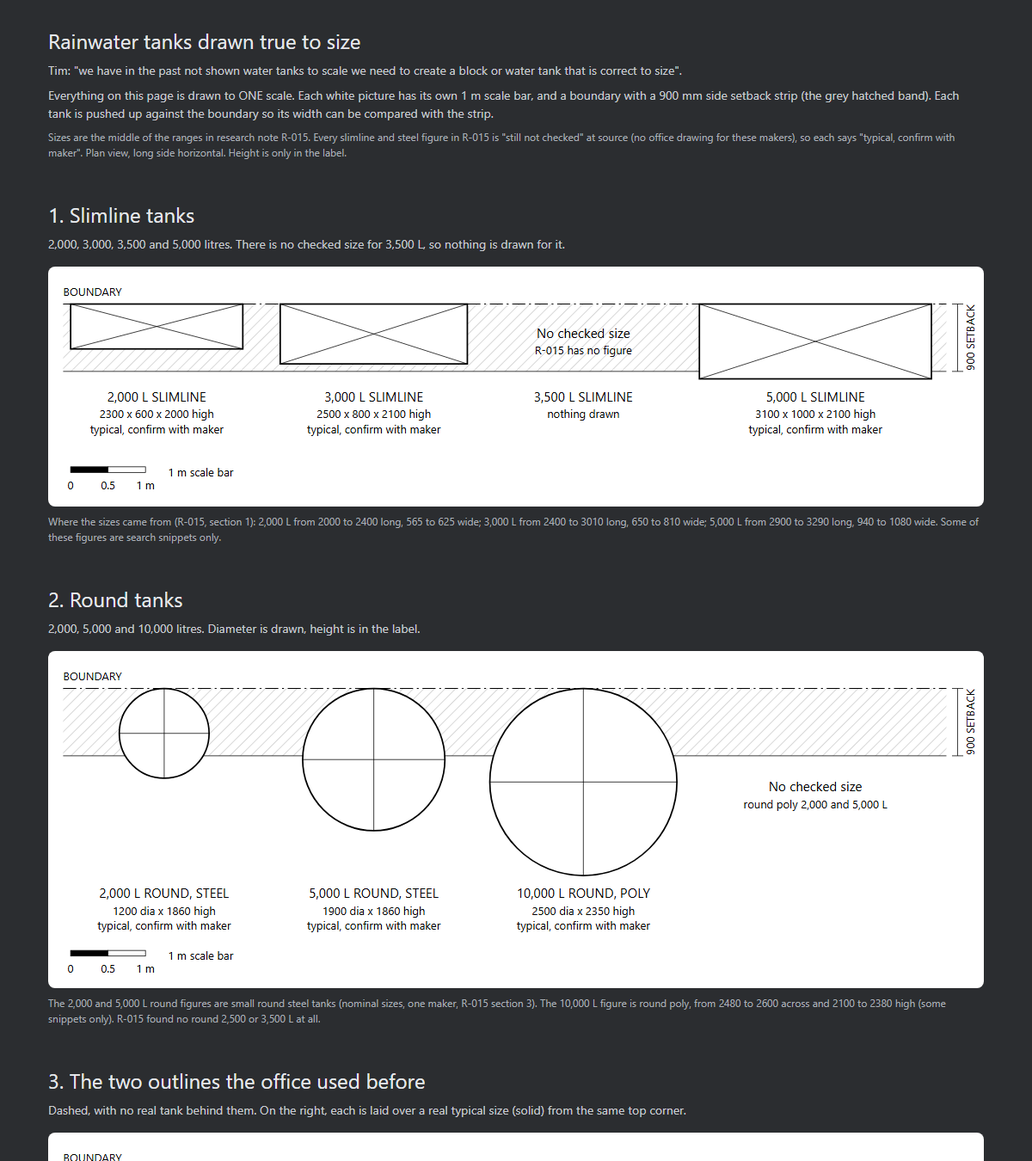
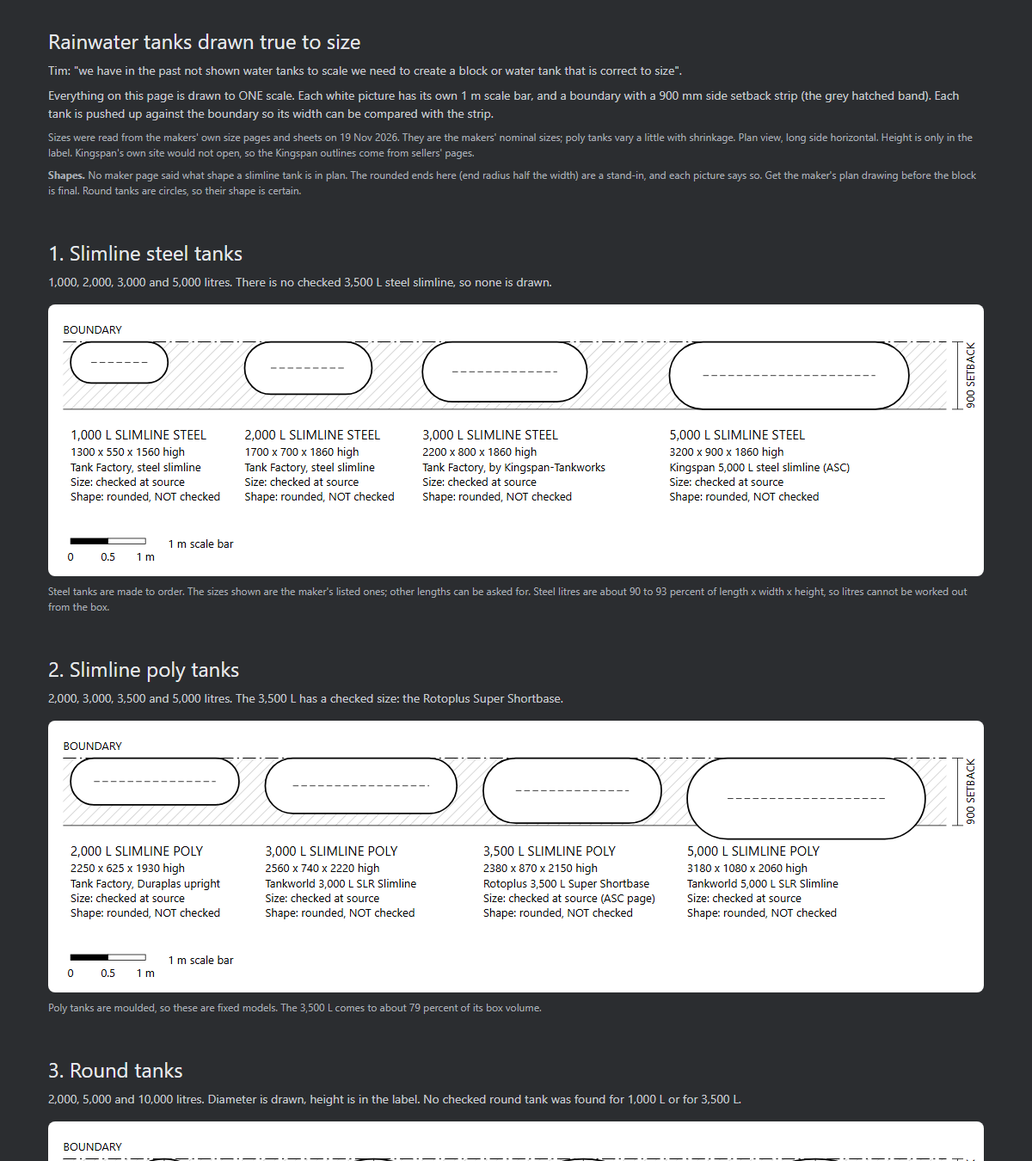
zero: tank page redrawn with makers' checked sizes and rounded ends (shape not checked at source)

Changed region(s): [[0.0308, 0.0933, 0.9558, 1.0]]

diff --git a/zero/pictures/tank_true_size.html b/zero/pictures/tank_true_size.html
@@ -49,210 +49,42 @@
   <h1>Rainwater tanks drawn true to size</h1>
   <p>Tim: "we have in the past not shown water tanks to scale we need to create a block or water tank that is correct to size".</p>
   <p>Everything on this page is drawn to ONE scale. Each white picture has its own 1 m scale bar, and a boundary with a 900 mm side setback strip (the grey hatched band). Each tank is pushed up against the boundary so its width can be compared with the strip.</p>
-  <p class="note">Sizes are the middle of the ranges in research note R-015. Every slimline and steel figure in R-015 is "still not checked" at source (no office drawing for these makers), so each says "typical, confirm with maker". Plan view, long side horizontal. Height is only in the label.</p>
+  <p class="note">Sizes were read from the makers' own size pages and sheets on 19 Nov 2026. They are the makers' nominal sizes; poly tanks vary a little with shrinkage. Plan view, long side horizontal. Height is only in the label. Kingspan's own site would not open, so the Kingspan outlines come from sellers' pages.</p>
+  <p class="note"><b>Shapes.</b> No maker page said what shape a slimline tank is in plan. The rounded ends here (end radius half the width) are a stand-in, and each picture says so. Get the maker's plan drawing before the block is final. Round tanks are circles, so their shape is certain.</p>
 
-  <!-- ================= 1. SLIMLINE ================= -->
-  <h2>1. Slimline tanks</h2>
-  <p>2,000, 3,000, 3,500 and 5,000 litres. There is no checked size for 3,500 L, so nothing is drawn for it.</p>
-  <div class="panel">
-    <svg viewBox="0 0 1000 256" font-family="'IBM Plex Sans','Segoe UI',Arial,sans-serif" role="img" aria-label="Slimline tanks at 2,000, 3,000, 3,500 (no checked size) and 5,000 litres, to one scale, beside a 900 mm setback strip">
-      <!-- boundary and 900 mm strip: 80 px = 1 m, so 900 mm = 72 px -->
-      <rect x="16" y="40" width="944" height="72" fill="url(#hatch)"/>
-      <line x1="16" y1="40" x2="960" y2="40" stroke="#000" stroke-width="1" stroke-dasharray="14 4 2 4"/>
-      <line x1="16" y1="112" x2="960" y2="112" stroke="#000" stroke-width=".7"/>
-      <text x="16" y="31" font-size="12" fill="#000">BOUNDARY</text>
-      <path d="M966 40H978M966 112H978M972 40V112" stroke="#000" stroke-width=".7" fill="none"/>
-      <text x="990" y="76" font-size="12" fill="#000" text-anchor="middle" transform="rotate(-90 990 76)">900 SETBACK</text>
+  <h2>1. Slimline steel tanks</h2>
+  <p>1,000, 2,000, 3,000 and 5,000 litres. There is no checked 3,500 L steel slimline, so none is drawn.</p>
+  <div class="panel"><svg viewBox="0 0 1000 290" font-family="'IBM Plex Sans','Segoe UI',Arial,sans-serif" role="img" aria-label="Slimline steel tanks at 1,000, 2,000, 3,000 and 5,000 litres, to one scale, beside a 900 mm setback strip"><rect x="16" y="40" width="944" height="72" fill="url(#hatch)"/><line x1="16" y1="40" x2="960" y2="40" stroke="#000" stroke-width="1" stroke-dasharray="14 4 2 4"/><line x1="16" y1="112" x2="960" y2="112" stroke="#000" stroke-width=".7"/><text x="16" y="31" font-size="12" fill="#000">BOUNDARY</text><path d="M966 40H978M966 112H978M972 40V112" stroke="#000" stroke-width=".7" fill="none"/><text x="990" y="76" font-size="12" fill="#000" text-anchor="middle" transform="rotate(-90 990 76)">900 SETBACK</text><rect x="24" y="40" width="104" height="44" rx="22" fill="#fff" stroke="#000" stroke-width="1.6"/><path d="M46 62H106" stroke="#000" stroke-width=".7" stroke-dasharray="6 3" fill="none"/><text x="24" y="144" font-size="14" fill="#000">1,000 L SLIMLINE STEEL</text><text x="24" y="162" font-size="12" fill="#000">1300 x 550 x 1560 high</text><text x="24" y="178" font-size="12" fill="#000">Tank Factory, steel slimline</text><text x="24" y="194" font-size="12" fill="#000">Size: checked at source</text><text x="24" y="210" font-size="12" fill="#000">Shape: rounded, NOT checked</text><rect x="210" y="40" width="136" height="56" rx="28" fill="#fff" stroke="#000" stroke-width="1.6"/><path d="M238 68H318" stroke="#000" stroke-width=".7" stroke-dasharray="6 3" fill="none"/><text x="210" y="144" font-size="14" fill="#000">2,000 L SLIMLINE STEEL</text><text x="210" y="162" font-size="12" fill="#000">1700 x 700 x 1860 high</text><text x="210" y="178" font-size="12" fill="#000">Tank Factory, steel slimline</text><text x="210" y="194" font-size="12" fill="#000">Size: checked at source</text><text x="210" y="210" font-size="12" fill="#000">Shape: rounded, NOT checked</text><rect x="400" y="40" width="176" height="64" rx="32" fill="#fff" stroke="#000" stroke-width="1.6"/><path d="M432 72H544" stroke="#000" stroke-width=".7" stroke-dasharray="6 3" fill="none"/><text x="400" y="144" font-size="14" fill="#000">3,000 L SLIMLINE STEEL</text><text x="400" y="162" font-size="12" fill="#000">2200 x 800 x 1860 high</text><text x="400" y="178" font-size="12" fill="#000">Tank Factory, by Kingspan-Tankworks</text><text x="400" y="194" font-size="12" fill="#000">Size: checked at source</text><text x="400" y="210" font-size="12" fill="#000">Shape: rounded, NOT checked</text><rect x="664" y="40" width="256" height="72" rx="36" fill="#fff" stroke="#000" stroke-width="1.6"/><path d="M700 76H884" stroke="#000" stroke-width=".7" stroke-dasharray="6 3" fill="none"/><text x="664" y="144" font-size="14" fill="#000">5,000 L SLIMLINE STEEL</text><text x="664" y="162" font-size="12" fill="#000">3200 x 900 x 1860 high</text><text x="664" y="178" font-size="12" fill="#000">Kingspan 5,000 L steel slimline (ASC)</text><text x="664" y="194" font-size="12" fill="#000">Size: checked at source</text><text x="664" y="210" font-size="12" fill="#000">Shape: rounded, NOT checked</text><rect x="24" y="250" width="40" height="6" fill="#000" stroke="#000" stroke-width=".7"/><rect x="64" y="250" width="40" height="6" fill="#fff" stroke="#000" stroke-width=".7"/><text x="24" y="274" font-size="12" fill="#000" text-anchor="middle">0</text><text x="64" y="274" font-size="12" fill="#000" text-anchor="middle">0.5</text><text x="104" y="274" font-size="12" fill="#000" text-anchor="middle">1 m</text><text x="128" y="260" font-size="12" fill="#000">1 m scale bar</text></svg></div>
+  <p class="note" style="margin-top:8px">Steel tanks are made to order. The sizes shown are the maker's listed ones; other lengths can be asked for. Steel litres are about 90 to 93 percent of length x width x height, so litres cannot be worked out from the box.</p>
 
-      <!-- 2,000 L: 2300 x 600 -->
-      <rect x="24" y="40" width="184" height="48" fill="#fff" stroke="#000" stroke-width="1.6"/>
-      <path d="M24 40L208 88M24 88L208 40" stroke="#000" stroke-width=".7"/>
-      <text x="116" y="144" font-size="14" fill="#000" text-anchor="middle">2,000 L SLIMLINE</text>
-      <text x="116" y="162" font-size="12" fill="#000" text-anchor="middle">2300 x 600 x 2000 high</text>
-      <text x="116" y="178" font-size="12" fill="#000" text-anchor="middle">typical, confirm with maker</text>
+  <h2>2. Slimline poly tanks</h2>
+  <p>2,000, 3,000, 3,500 and 5,000 litres. The 3,500 L has a checked size: the Rotoplus Super Shortbase.</p>
+  <div class="panel"><svg viewBox="0 0 1000 290" font-family="'IBM Plex Sans','Segoe UI',Arial,sans-serif" role="img" aria-label="Slimline poly tanks at 2,000, 3,000, 3,500 and 5,000 litres, to one scale, beside a 900 mm setback strip"><rect x="16" y="40" width="944" height="72" fill="url(#hatch)"/><line x1="16" y1="40" x2="960" y2="40" stroke="#000" stroke-width="1" stroke-dasharray="14 4 2 4"/><line x1="16" y1="112" x2="960" y2="112" stroke="#000" stroke-width=".7"/><text x="16" y="31" font-size="12" fill="#000">BOUNDARY</text><path d="M966 40H978M966 112H978M972 40V112" stroke="#000" stroke-width=".7" fill="none"/><text x="990" y="76" font-size="12" fill="#000" text-anchor="middle" transform="rotate(-90 990 76)">900 SETBACK</text><rect x="24" y="40" width="180" height="50" rx="25" fill="#fff" stroke="#000" stroke-width="1.6"/><path d="M49 65H179" stroke="#000" stroke-width=".7" stroke-dasharray="6 3" fill="none"/><text x="24" y="144" font-size="14" fill="#000">2,000 L SLIMLINE POLY</text><text x="24" y="162" font-size="12" fill="#000">2250 x 625 x 1930 high</text><text x="24" y="178" font-size="12" fill="#000">Tank Factory, Duraplas upright</text><text x="24" y="194" font-size="12" fill="#000">Size: checked at source</text><text x="24" y="210" font-size="12" fill="#000">Shape: rounded, NOT checked</text><rect x="232" y="40" width="204.8" height="59.2" rx="29.6" fill="#fff" stroke="#000" stroke-width="1.6"/><path d="M261.6 69.6H407.2" stroke="#000" stroke-width=".7" stroke-dasharray="6 3" fill="none"/><text x="232" y="144" font-size="14" fill="#000">3,000 L SLIMLINE POLY</text><text x="232" y="162" font-size="12" fill="#000">2560 x 740 x 2220 high</text><text x="232" y="178" font-size="12" fill="#000">Tankworld 3,000 L SLR Slimline</text><text x="232" y="194" font-size="12" fill="#000">Size: checked at source</text><text x="232" y="210" font-size="12" fill="#000">Shape: rounded, NOT checked</text><rect x="465" y="40" width="190.4" height="69.6" rx="34.8" fill="#fff" stroke="#000" stroke-width="1.6"/><path d="M499.8 74.8H620.6" stroke="#000" stroke-width=".7" stroke-dasharray="6 3" fill="none"/><text x="465" y="144" font-size="14" fill="#000">3,500 L SLIMLINE POLY</text><text x="465" y="162" font-size="12" fill="#000">2380 x 870 x 2150 high</text><text x="465" y="178" font-size="12" fill="#000">Rotoplus 3,500 L Super Shortbase</text><text x="465" y="194" font-size="12" fill="#000">Size: checked at source (ASC page)</text><text x="465" y="210" font-size="12" fill="#000">Shape: rounded, NOT checked</text><rect x="683" y="40" width="254.4" height="86.4" rx="43.2" fill="#fff" stroke="#000" stroke-width="1.6"/><path d="M726.2 83.2H894.2" stroke="#000" stroke-width=".7" stroke-dasharray="6 3" fill="none"/><text x="683" y="144" font-size="14" fill="#000">5,000 L SLIMLINE POLY</text><text x="683" y="162" font-size="12" fill="#000">3180 x 1080 x 2060 high</text><text x="683" y="178" font-size="12" fill="#000">Tankworld 5,000 L SLR Slimline</text><text x="683" y="194" font-size="12" fill="#000">Size: checked at source</text><text x="683" y="210" font-size="12" fill="#000">Shape: rounded, NOT checked</text><rect x="24" y="250" width="40" height="6" fill="#000" stroke="#000" stroke-width=".7"/><rect x="64" y="250" width="40" height="6" fill="#fff" stroke="#000" stroke-width=".7"/><text x="24" y="274" font-size="12" fill="#000" text-anchor="middle">0</text><text x="64" y="274" font-size="12" fill="#000" text-anchor="middle">0.5</text><text x="104" y="274" font-size="12" fill="#000" text-anchor="middle">1 m</text><text x="128" y="260" font-size="12" fill="#000">1 m scale bar</text></svg></div>
+  <p class="note" style="margin-top:8px">Poly tanks are moulded, so these are fixed models. The 3,500 L comes to about 79 percent of its box volume.</p>
 
-      <!-- 3,000 L: 2500 x 800 -->
-      <rect x="248" y="40" width="200" height="64" fill="#fff" stroke="#000" stroke-width="1.6"/>
-      <path d="M248 40L448 104M248 104L448 40" stroke="#000" stroke-width=".7"/>
-      <text x="348" y="144" font-size="14" fill="#000" text-anchor="middle">3,000 L SLIMLINE</text>
-      <text x="348" y="162" font-size="12" fill="#000" text-anchor="middle">2500 x 800 x 2100 high</text>
-      <text x="348" y="178" font-size="12" fill="#000" text-anchor="middle">typical, confirm with maker</text>
+  <h2>3. Round tanks</h2>
+  <p>2,000, 5,000 and 10,000 litres. Diameter is drawn, height is in the label. No checked round tank was found for 1,000 L or for 3,500 L.</p>
+  <div class="panel"><svg viewBox="0 0 1000 400" font-family="'IBM Plex Sans','Segoe UI',Arial,sans-serif" role="img" aria-label="Round tanks at 2,000, 5,000 and 10,000 litres to one scale, beside a 900 mm setback strip"><rect x="16" y="40" width="944" height="72" fill="url(#hatch)"/><line x1="16" y1="40" x2="960" y2="40" stroke="#000" stroke-width="1" stroke-dasharray="14 4 2 4"/><line x1="16" y1="112" x2="960" y2="112" stroke="#000" stroke-width=".7"/><text x="16" y="31" font-size="12" fill="#000">BOUNDARY</text><path d="M966 40H978M966 112H978M972 40V112" stroke="#000" stroke-width=".7" fill="none"/><text x="990" y="76" font-size="12" fill="#000" text-anchor="middle" transform="rotate(-90 990 76)">900 SETBACK</text><circle cx="124" cy="88" r="48" fill="#fff" stroke="#000" stroke-width="1.6"/><path d="M76 88H172M124 40V136" stroke="#000" stroke-width=".7" fill="none"/><text x="124" y="290" font-size="14" fill="#000" text-anchor="middle">2,000 L ROUND, STEEL</text><text x="124" y="308" font-size="12" fill="#000" text-anchor="middle">1200 dia x 1860 high</text><text x="124" y="324" font-size="12" fill="#000" text-anchor="middle">Tank Factory, round steel</text><text x="124" y="340" font-size="12" fill="#000" text-anchor="middle">Size: checked at source</text><circle cx="348" cy="116" r="76" fill="#fff" stroke="#000" stroke-width="1.6"/><path d="M272 116H424M348 40V192" stroke="#000" stroke-width=".7" fill="none"/><text x="348" y="290" font-size="14" fill="#000" text-anchor="middle">5,000 L ROUND, STEEL</text><text x="348" y="308" font-size="12" fill="#000" text-anchor="middle">1900 dia x 1860 high</text><text x="348" y="324" font-size="12" fill="#000" text-anchor="middle">Tank Factory, round steel</text><text x="348" y="340" font-size="12" fill="#000" text-anchor="middle">Size: checked at source</text><circle cx="572" cy="140.4" r="100.4" fill="#fff" stroke="#000" stroke-width="1.6"/><path d="M471.6 140.4H672.4M572 40V240.8" stroke="#000" stroke-width=".7" fill="none"/><text x="572" y="290" font-size="14" fill="#000" text-anchor="middle">10,000 L ROUND, POLY</text><text x="572" y="308" font-size="12" fill="#000" text-anchor="middle">2510 dia x 2350 high</text><text x="572" y="324" font-size="12" fill="#000" text-anchor="middle">Tank Factory, Duraplas round</text><text x="572" y="340" font-size="12" fill="#000" text-anchor="middle">Size: checked at source</text><circle cx="820" cy="148" r="108" fill="#fff" stroke="#000" stroke-width="1.6"/><path d="M712 148H928M820 40V256" stroke="#000" stroke-width=".7" fill="none"/><text x="820" y="290" font-size="14" fill="#000" text-anchor="middle">10,000 L ROUND, STEEL</text><text x="820" y="308" font-size="12" fill="#000" text-anchor="middle">2700 dia x 1860 high</text><text x="820" y="324" font-size="12" fill="#000" text-anchor="middle">Tank Factory, round steel</text><text x="820" y="340" font-size="12" fill="#000" text-anchor="middle">Size: checked at source</text><rect x="24" y="362" width="40" height="6" fill="#000" stroke="#000" stroke-width=".7"/><rect x="64" y="362" width="40" height="6" fill="#fff" stroke="#000" stroke-width=".7"/><text x="24" y="386" font-size="12" fill="#000" text-anchor="middle">0</text><text x="64" y="386" font-size="12" fill="#000" text-anchor="middle">0.5</text><text x="104" y="386" font-size="12" fill="#000" text-anchor="middle">1 m</text><text x="128" y="372" font-size="12" fill="#000">1 m scale bar</text></svg></div>
 
-      <!-- 3,500 L: no checked size -->
-      <text x="572" y="76" font-size="14" fill="#000" text-anchor="middle">No checked size</text>
-      <text x="572" y="94" font-size="12" fill="#000" text-anchor="middle">R-015 has no figure</text>
-      <text x="572" y="144" font-size="14" fill="#000" text-anchor="middle">3,500 L SLIMLINE</text>
-      <text x="572" y="162" font-size="12" fill="#000" text-anchor="middle">nothing drawn</text>
+  <h2>4. The two outlines the office used before</h2>
+  <p>Dashed, with no real tank behind them. On the right, each is laid over a real size (solid) from the same top corner.</p>
+  <div class="panel"><svg viewBox="0 0 1000 300" font-family="'IBM Plex Sans','Segoe UI',Arial,sans-serif" role="img" aria-label="The two old tank outlines, 890 by 2400 and 2250 by 650, dashed, to the same scale, and laid over real sizes"><rect x="16" y="40" width="944" height="72" fill="url(#hatch)"/><line x1="16" y1="40" x2="960" y2="40" stroke="#000" stroke-width="1" stroke-dasharray="14 4 2 4"/><line x1="16" y1="112" x2="960" y2="112" stroke="#000" stroke-width=".7"/><text x="16" y="31" font-size="12" fill="#000">BOUNDARY</text><path d="M966 40H978M966 112H978M972 40V112" stroke="#000" stroke-width=".7" fill="none"/><text x="990" y="76" font-size="12" fill="#000" text-anchor="middle" transform="rotate(-90 990 76)">900 SETBACK</text><rect x="24" y="40" width="192" height="71.2" fill="#fff" stroke="#000" stroke-width="1.2" stroke-dasharray="7 4"/><text x="24" y="144" font-size="14" fill="#000">old outline, not to size</text><text x="24" y="162" font-size="12" fill="#000">890 x 2400</text><rect x="248" y="40" width="180" height="52" fill="#fff" stroke="#000" stroke-width="1.2" stroke-dasharray="7 4"/><text x="248" y="144" font-size="14" fill="#000">old outline, not to size</text><text x="248" y="162" font-size="12" fill="#000">2250 x 650</text><rect x="472" y="40" width="176" height="64" rx="32" fill="#fff" stroke="#000" stroke-width="1.6"/><rect x="472" y="40" width="192" height="71.2" fill="none" stroke="#000" stroke-width="1.2" stroke-dasharray="7 4"/><text x="472" y="144" font-size="14" fill="#000">old against new</text><text x="472" y="162" font-size="12" fill="#000">solid: 3,000 L steel 2200 x 800</text><text x="472" y="178" font-size="12" fill="#000">dashed: old 890 x 2400</text><rect x="712" y="40" width="180" height="50" rx="25" fill="#fff" stroke="#000" stroke-width="1.6"/><rect x="712" y="40" width="180" height="52" fill="none" stroke="#000" stroke-width="1.2" stroke-dasharray="7 4"/><text x="712" y="144" font-size="14" fill="#000">old against new</text><text x="712" y="162" font-size="12" fill="#000">solid: 2,000 L poly 2250 x 625</text><text x="712" y="178" font-size="12" fill="#000">dashed: old 2250 x 650</text><rect x="24" y="234" width="40" height="6" fill="#000" stroke="#000" stroke-width=".7"/><rect x="64" y="234" width="40" height="6" fill="#fff" stroke="#000" stroke-width=".7"/><text x="24" y="258" font-size="12" fill="#000" text-anchor="middle">0</text><text x="64" y="258" font-size="12" fill="#000" text-anchor="middle">0.5</text><text x="104" y="258" font-size="12" fill="#000" text-anchor="middle">1 m</text><text x="128" y="244" font-size="12" fill="#000">1 m scale bar</text></svg></div>
 
-      <!-- 5,000 L: 3100 x 1000 -->
-      <rect x="696" y="40" width="248" height="80" fill="#fff" stroke="#000" stroke-width="1.6"/>
-      <path d="M696 40L944 120M696 120L944 40" stroke="#000" stroke-width=".7"/>
-      <text x="820" y="144" font-size="14" fill="#000" text-anchor="middle">5,000 L SLIMLINE</text>
-      <text x="820" y="162" font-size="12" fill="#000" text-anchor="middle">3100 x 1000 x 2100 high</text>
-      <text x="820" y="178" font-size="12" fill="#000" text-anchor="middle">typical, confirm with maker</text>
-
-      <!-- scale bar, 80 px = 1 m -->
-      <rect x="24" y="214" width="40" height="6" fill="#000" stroke="#000" stroke-width=".7"/>
-      <rect x="64" y="214" width="40" height="6" fill="#fff" stroke="#000" stroke-width=".7"/>
-      <text x="24" y="238" font-size="12" fill="#000" text-anchor="middle">0</text>
-      <text x="64" y="238" font-size="12" fill="#000" text-anchor="middle">0.5</text>
-      <text x="104" y="238" font-size="12" fill="#000" text-anchor="middle">1 m</text>
-      <text x="128" y="224" font-size="12" fill="#000">1 m scale bar</text>
-    </svg>
-  </div>
-  <p class="note" style="margin-top:8px">Where the sizes came from (R-015, section 1): 2,000 L from 2000 to 2400 long, 565 to 625 wide; 3,000 L from 2400 to 3010 long, 650 to 810 wide; 5,000 L from 2900 to 3290 long, 940 to 1080 wide. Some of these figures are search snippets only.</p>
-
-  <!-- ================= 2. ROUND ================= -->
-  <h2>2. Round tanks</h2>
-  <p>2,000, 5,000 and 10,000 litres. Diameter is drawn, height is in the label.</p>
-  <div class="panel">
-    <svg viewBox="0 0 1000 360" font-family="'IBM Plex Sans','Segoe UI',Arial,sans-serif" role="img" aria-label="Round tanks at 2,000, 5,000 and 10,000 litres to one scale, beside a 900 mm setback strip">
-      <rect x="16" y="40" width="944" height="72" fill="url(#hatch)"/>
-      <line x1="16" y1="40" x2="960" y2="40" stroke="#000" stroke-width="1" stroke-dasharray="14 4 2 4"/>
-      <line x1="16" y1="112" x2="960" y2="112" stroke="#000" stroke-width=".7"/>
-      <text x="16" y="31" font-size="12" fill="#000">BOUNDARY</text>
-      <path d="M966 40H978M966 112H978M972 40V112" stroke="#000" stroke-width=".7" fill="none"/>
-      <text x="990" y="76" font-size="12" fill="#000" text-anchor="middle" transform="rotate(-90 990 76)">900 SETBACK</text>
-
-      <!-- 2,000 L round steel: 1200 dia = 96 px -->
-      <circle cx="124" cy="88" r="48" fill="#fff" stroke="#000" stroke-width="1.6"/>
-      <path d="M76 88H172M124 40V136" stroke="#000" stroke-width=".7"/>
-      <text x="124" y="264" font-size="14" fill="#000" text-anchor="middle">2,000 L ROUND, STEEL</text>
-      <text x="124" y="282" font-size="12" fill="#000" text-anchor="middle">1200 dia x 1860 high</text>
-      <text x="124" y="298" font-size="12" fill="#000" text-anchor="middle">typical, confirm with maker</text>
-
-      <!-- 5,000 L round steel: 1900 dia = 152 px -->
-      <circle cx="348" cy="116" r="76" fill="#fff" stroke="#000" stroke-width="1.6"/>
-      <path d="M272 116H424M348 40V192" stroke="#000" stroke-width=".7"/>
-      <text x="348" y="264" font-size="14" fill="#000" text-anchor="middle">5,000 L ROUND, STEEL</text>
-      <text x="348" y="282" font-size="12" fill="#000" text-anchor="middle">1900 dia x 1860 high</text>
-      <text x="348" y="298" font-size="12" fill="#000" text-anchor="middle">typical, confirm with maker</text>
-
-      <!-- 10,000 L round poly: 2500 dia = 200 px -->
-      <circle cx="572" cy="140" r="100" fill="#fff" stroke="#000" stroke-width="1.6"/>
-      <path d="M472 140H672M572 40V240" stroke="#000" stroke-width=".7"/>
-      <text x="572" y="264" font-size="14" fill="#000" text-anchor="middle">10,000 L ROUND, POLY</text>
-      <text x="572" y="282" font-size="12" fill="#000" text-anchor="middle">2500 dia x 2350 high</text>
-      <text x="572" y="298" font-size="12" fill="#000" text-anchor="middle">typical, confirm with maker</text>
-
-      <!-- poly round 2,000 and 5,000: no checked size -->
-      <text x="820" y="150" font-size="14" fill="#000" text-anchor="middle">No checked size</text>
-      <text x="820" y="168" font-size="12" fill="#000" text-anchor="middle">round poly 2,000 and 5,000 L</text>
-
-      <!-- scale bar -->
-      <rect x="24" y="320" width="40" height="6" fill="#000" stroke="#000" stroke-width=".7"/>
-      <rect x="64" y="320" width="40" height="6" fill="#fff" stroke="#000" stroke-width=".7"/>
-      <text x="24" y="344" font-size="12" fill="#000" text-anchor="middle">0</text>
-      <text x="64" y="344" font-size="12" fill="#000" text-anchor="middle">0.5</text>
-      <text x="104" y="344" font-size="12" fill="#000" text-anchor="middle">1 m</text>
-      <text x="128" y="330" font-size="12" fill="#000">1 m scale bar</text>
-    </svg>
-  </div>
-  <p class="note" style="margin-top:8px">The 2,000 and 5,000 L round figures are small round steel tanks (nominal sizes, one maker, R-015 section 3). The 10,000 L figure is round poly, from 2480 to 2600 across and 2100 to 2380 high (some snippets only). R-015 found no round 2,500 or 3,500 L at all.</p>
-
-  <!-- ================= 3. OLD OUTLINES ================= -->
-  <h2>3. The two outlines the office used before</h2>
-  <p>Dashed, with no real tank behind them. On the right, each is laid over a real typical size (solid) from the same top corner.</p>
-  <div class="panel">
-    <svg viewBox="0 0 1000 300" font-family="'IBM Plex Sans','Segoe UI',Arial,sans-serif" role="img" aria-label="The two old tank outlines, 890 by 2400 and 2250 by 650, dashed, to the same scale, and laid over real typical sizes">
-      <rect x="16" y="40" width="944" height="72" fill="url(#hatch)"/>
-      <line x1="16" y1="40" x2="960" y2="40" stroke="#000" stroke-width="1" stroke-dasharray="14 4 2 4"/>
-      <line x1="16" y1="112" x2="960" y2="112" stroke="#000" stroke-width=".7"/>
-      <text x="16" y="31" font-size="12" fill="#000">BOUNDARY</text>
-      <path d="M966 40H978M966 112H978M972 40V112" stroke="#000" stroke-width=".7" fill="none"/>
-      <text x="990" y="76" font-size="12" fill="#000" text-anchor="middle" transform="rotate(-90 990 76)">900 SETBACK</text>
-
-      <!-- old 890 x 2400: 192 x 71.2 px -->
-      <rect x="24" y="40" width="192" height="71.2" fill="#fff" stroke="#000" stroke-width="1.2" stroke-dasharray="7 4"/>
-      <text x="120" y="144" font-size="14" fill="#000" text-anchor="middle">old outline, not to size</text>
-      <text x="120" y="162" font-size="12" fill="#000" text-anchor="middle">890 x 2400</text>
-
-      <!-- old 2250 x 650: 180 x 52 px -->
-      <rect x="248" y="40" width="180" height="52" fill="#fff" stroke="#000" stroke-width="1.2" stroke-dasharray="7 4"/>
-      <text x="338" y="144" font-size="14" fill="#000" text-anchor="middle">old outline, not to size</text>
-      <text x="338" y="162" font-size="12" fill="#000" text-anchor="middle">2250 x 650</text>
-
-      <!-- overlay 1: real 3,000 L slimline (2500 x 800) with old 890 x 2400 -->
-      <rect x="472" y="40" width="200" height="64" fill="#fff" stroke="#000" stroke-width="1.6"/>
-      <rect x="472" y="40" width="192" height="71.2" fill="none" stroke="#000" stroke-width="1.2" stroke-dasharray="7 4"/>
-      <text x="572" y="144" font-size="14" fill="#000" text-anchor="middle">old against new</text>
-      <text x="572" y="162" font-size="12" fill="#000" text-anchor="middle">solid: 3,000 L 2500 x 800</text>
-      <text x="572" y="178" font-size="12" fill="#000" text-anchor="middle">dashed: old 890 x 2400</text>
-
-      <!-- overlay 2: real 2,000 L slimline (2300 x 600) with old 2250 x 650 -->
-      <rect x="696" y="40" width="184" height="48" fill="#fff" stroke="#000" stroke-width="1.6"/>
-      <rect x="696" y="40" width="180" height="52" fill="none" stroke="#000" stroke-width="1.2" stroke-dasharray="7 4"/>
-      <text x="796" y="144" font-size="14" fill="#000" text-anchor="middle">old against new</text>
-      <text x="796" y="162" font-size="12" fill="#000" text-anchor="middle">solid: 2,000 L 2300 x 600</text>
-      <text x="796" y="178" font-size="12" fill="#000" text-anchor="middle">dashed: old 2250 x 650</text>
-
-      <!-- scale bar -->
-      <rect x="24" y="234" width="40" height="6" fill="#000" stroke="#000" stroke-width=".7"/>
-      <rect x="64" y="234" width="40" height="6" fill="#fff" stroke="#000" stroke-width=".7"/>
-      <text x="24" y="258" font-size="12" fill="#000" text-anchor="middle">0</text>
-      <text x="64" y="258" font-size="12" fill="#000" text-anchor="middle">0.5</text>
-      <text x="104" y="258" font-size="12" fill="#000" text-anchor="middle">1 m</text>
-      <text x="128" y="244" font-size="12" fill="#000">1 m scale bar</text>
-    </svg>
-  </div>
-
-  <!-- ================= OPTIONS ================= -->
-  <h2>How should the tool draw a tank?</h2>
-  <p>Three ways. Each card shows the label that would sit beside the tank on the plan. The tank shown is the 3,000 L slimline.</p>
-  <p class="note">The label example Tim gave read "3,500 L ... 2250 x 800 x 2100". R-015 has no checked 3,500 L size, so these cards use the 3,000 L figure instead.</p>
-
-  <div class="grid">
-
+  <h2>How the tool will draw a tank</h2>
+  <p>This is what Tim ruled: "presets fill, typing wins but the tanks need to be rounded in the same way as real life."</p>
+  <div class="grid" style="grid-template-columns:minmax(0,560px)">
     <div class="card">
-      <div class="head"><div class="letter">A</div><div class="title">Pick a maker preset by volume, outline drawn to those sizes</div></div>
-      <div class="pic">
-        <svg viewBox="0 0 520 236" font-family="'IBM Plex Sans','Segoe UI',Arial,sans-serif" role="img" aria-label="Option A label beside a slimline tank">
-          <rect x="24" y="20" width="300" height="96" fill="#fff" stroke="#000" stroke-width="2"/>
-          <path d="M24 20L324 116M24 116L324 20" stroke="#000" stroke-width=".8"/>
-          <text x="24" y="148" font-size="12" fill="#000">3,000 L SLIMLINE TANK</text>
-          <text x="24" y="164" font-size="12" fill="#000">2500 x 800 x 2100 HIGH (CONFIRM WITH MAKER)</text>
-        </svg>
-      </div>
-      <div class="line"><span class="k">What the drafter does</span><span class="v">Picks 3,000 L from a list. Nothing to type.</span></div>
-      <div class="line"><span class="k">Watch out</span><span class="v">If the real tank is a different make, the outline is wrong and there is no way to fix it in the tool.</span></div>
+      <div class="head"><div class="letter">1</div><div class="title">Pick a volume; the maker's sizes fill the boxes; typing over them wins</div></div>
+      <div class="pic"><svg viewBox="0 0 520 256" font-family="'IBM Plex Sans','Segoe UI',Arial,sans-serif" role="img" aria-label="The label beside a rounded slimline tank: picked from the list, and typed over"><rect x="24" y="16" width="264" height="96" rx="48" fill="#fff" stroke="#000" stroke-width="2"/><path d="M72 64H240" stroke="#000" stroke-width=".8" stroke-dasharray="6 3" fill="none"/><text x="24" y="148" font-size="12" fill="#000">PICKED FROM THE LIST:</text><text x="24" y="164" font-size="12" fill="#000">3,000 L SLIMLINE TANK</text><text x="24" y="180" font-size="12" fill="#000">2200 x 800 x 1860 HIGH (CONFIRM WITH MAKER)</text><text x="24" y="208" font-size="12" fill="#000">TYPED OVER (LENGTH 2300):</text><text x="24" y="224" font-size="12" fill="#000">3,000 L SLIMLINE TANK</text><text x="24" y="240" font-size="12" fill="#000">2300 x 800 x 1860 HIGH (TYPED, CONFIRM WITH MAKER)</text></svg></div>
+      <div class="line"><span class="k">What the drafter does</span><span class="v">Picks 3,000 L. Length, width and height fill in from the maker's size. Types over any box if the real tank is different.</span></div>
+      <div class="line"><span class="k">The litres</span><span class="v">Always the stated figure (3,000 L), never worked out from the box. A box of 2200 x 800 x 1860 is 3,274 L, but the maker rates it 3,000 L.</span></div>
+      <div class="line"><span class="k">The outline</span><span class="v">Drawn rounded, as the real tank is, at the sizes in the boxes.</span></div>
+      <div class="line"><span class="k">Watch out</span><span class="v">The label must say TYPED when a size has been changed, so a builder knows it is not a catalogue size.</span></div>
+      <div class="line"><span class="k">Made to order</span><span class="v">Steel makers build to order, so their list is only the usual sizes. Typing a different length is fine; ask the maker for the litres of that length.</span></div>
     </div>
-
-    <div class="card">
-      <div class="head"><div class="letter">B</div><div class="title">Type length and width (or diameter); the tool shows the volume that gives at the typed height</div></div>
-      <div class="pic">
-        <svg viewBox="0 0 520 236" font-family="'IBM Plex Sans','Segoe UI',Arial,sans-serif" role="img" aria-label="Option B label beside a slimline tank">
-          <rect x="24" y="20" width="300" height="96" fill="#fff" stroke="#000" stroke-width="2"/>
-          <path d="M24 20L324 116M24 116L324 20" stroke="#000" stroke-width=".8"/>
-          <text x="24" y="148" font-size="12" fill="#000">SLIMLINE TANK 2500 x 800 x 2100 HIGH</text>
-          <text x="24" y="164" font-size="12" fill="#000">= 4,200 L AT THIS HEIGHT (CONFIRM WITH MAKER)</text>
-        </svg>
-      </div>
-      <div class="line"><span class="k">What the drafter does</span><span class="v">Types the maker's three sizes.</span></div>
-      <div class="line"><span class="k">Watch out</span><span class="v">A plain box gives 4,200 L for a tank the maker rates at 3,000 L, about 40% high. The litres on the label would mislead.</span></div>
-    </div>
-
-    <div class="card">
-      <div class="head"><div class="letter">C</div><div class="title">Both: presets fill the boxes, typing over them wins</div><div class="rec">Recommended</div></div>
-      <p class="why">Why: the preset sizes are only typical (R-015), so the drafter must be able to type the maker's real size on the day. A preset still saves the typing, and it keeps the maker's rated litres on the label.</p>
-      <div class="pic">
-        <svg viewBox="0 0 520 236" font-family="'IBM Plex Sans','Segoe UI',Arial,sans-serif" role="img" aria-label="Option C labels beside a slimline tank: preset, and typed over">
-          <rect x="24" y="12" width="300" height="96" fill="#fff" stroke="#000" stroke-width="2"/>
-          <path d="M24 12L324 108M24 108L324 12" stroke="#000" stroke-width=".8"/>
-          <text x="24" y="136" font-size="12" fill="#000">PRESET FILLS THE BOXES:</text>
-          <text x="24" y="152" font-size="12" fill="#000">3,000 L SLIMLINE TANK</text>
-          <text x="24" y="168" font-size="12" fill="#000">2500 x 800 x 2100 HIGH (CONFIRM WITH MAKER)</text>
-          <text x="24" y="196" font-size="12" fill="#000">TYPED OVER (LENGTH 2600):</text>
-          <text x="24" y="212" font-size="12" fill="#000">SLIMLINE TANK 2600 x 800 x 2100 HIGH</text>
-          <text x="24" y="228" font-size="12" fill="#000">(TYPED, CONFIRM WITH MAKER)</text>
-        </svg>
-      </div>
-      <div class="line"><span class="k">What the drafter does</span><span class="v">Picks 3,000 L, or types straight over any box. Typed sizes win and the litres drop off the label.</span></div>
-      <div class="line"><span class="k">Watch out</span><span class="v">The label must say TYPED when the preset has been changed, so a builder knows the size is not a catalogue figure.</span></div>
-    </div>
-
   </div>
 
-  <p class="note" style="margin-top:32px">Tank sizes are typical figures from R-015 and are not checked at source. Nothing here is built into the tool.</p>
+  <p class="note" style="margin-top:32px">Sizes are from the makers' pages as read on 19 Nov 2026. Nothing here is built into the tool.</p>
 </div>
 </body>
 </html>

diff --git a/zero/reference/research/R-015_rainwater_tank_true_sizes.md b/zero/reference/research/R-015_rainwater_tank_true_sizes.md
@@ -1,5 +1,87 @@
 # R-015 — Real plan sizes of rainwater tanks sold in Victoria
 
+## Makers' sizes and shapes, checked 19 Nov 2026
+
+Public web only (Melbourne, 19 Nov 2026). Sizes in mm, written length x width x height. Round tanks are diameter x height. "Checked at source" means I opened the maker's or seller's own page or document and read the figure there. "Not checked at source" means a search summary only, or I was blocked. No client data used.
+
+### ANSWER FIRST
+
+1. **Plan shape: I could not confirm any slimline plan shape at source.** No maker page or sheet I could read states "rounded ends" or a corner radius. The Tankworld sheets are drawings, but I could not view the drawing part. So every slimline shape below is "not checked at source".
+2. **A 3,500 L slimline does exist, with a checked size.** Rotoplus 3,500 L Super Shortbase Slimline: 2380 x 870 x 2150 (ASC Water Tanks product page, which also lists the volume as 3,500 L).
+3. **Steel slimline is made to order.** The Tank Factory page says all its steel tanks are made to order, the listed sizes are the best-value ones, and made-to-measure tanks are available by contacting them with the dimensions wanted. It publishes no rule for length, width or height limits.
+4. **The stated litres are lower than the box volume.** Steel: about 90 to 93 percent of length x width x height. Poly: the Rotoplus 3,500 L comes to about 79 percent. So never work litres out from the box (my own arithmetic, not a maker figure).
+
+### Makers checked at source
+
+1. **The Tank Factory** (online seller of Duraplas poly tanks and Kingspan Aquaplate steel tanks): pages "Slimline Steel Water Tanks", "Slimline Water Tanks" (poly), "Round Steel Water Tanks" and "Round Water Tanks" (poly), all opened. Sizes are labelled "nominal". Its 3,000 L slimline steel product page says the tank is supplied "by Kingspan-Tankworks".
+2. **Tankworld** (Sunbury, Victoria; poly): the product specification sheets for the 3,000 L SLR Slimline and 5,000 L SLR Slimline, opened and read.
+3. **Rotoplas / Rotoplus** (poly): the "Rotoplas Rainwater Tanks Catalogue 2019" slimline page (opened, an older catalogue), and ASC Water Tanks' product pages for the Rotoplus 3,500 L slimline (opened).
+4. **ASC Water Tanks** (Melbourne seller of Rotoplus and Kingspan): product page for the 5,000 L Kingspan Steel Slimline Tank, opened.
+5. **Kingspan itself: NOT checked at source.** Kingspan's own website stopped my reader with a "human verification" page and I did not try to get round it. Its "Made to Measure Water Tanks" brochure came back as an error. What I have for Kingspan is from the Tank Factory and ASC pages above, plus a search summary of the brochure.
+6. **Polymaster and Bushman: NOT checked at source this time.** Both blocked my reader. The earlier figures in the old sections below stay "not checked".
+
+### Slimline steel (fixed models listed; all made to order)
+
+1. **The Tank Factory slimline steel page (checked at source, nominal sizes).**
+   - 1,000 L: 1300 x 550 x 1560.
+   - 1,500 L: 1900 x 550 x 1560.
+   - 2,000 L: 1700 x 700 x 1860, or "skinny" 2500 x 550 x 1560.
+   - 2,500 L: 2200 x 800 x 1560.
+   - 3,000 L: 2200 x 800 x 1860, or "skinny" 2500 x 700 x 1860, or "squat" 2500 x 850 x 1560. (Also a "Modline" 3,000 L, 2000 x 800 x 2020.)
+   - 4,000 L: 2900 x 800 x 1860 ("skinny"), or 2400 x 1000 x 1860.
+   - 5,000 L: 2600 x 1150 x 1860, or 3200 x 900 x 1860 ("skinny"), or 3100 x 1150 x 1560 ("squat"), or 2400 x 1150 x 2020 ("tall"). (Also Modline 5,000 L: 2300 x 1150 x 2020 and 3200 x 800 x 2020.)
+   - 6,000 L: 2900 x 1150 x 2020. 7,000 L: 3300 x 1150 x 2020.
+   - Plan shape: not stated on the page. **Not checked at source.**
+2. **Kingspan 5,000 L Steel Slimline, ASC page (checked at source):** 3200 x 900 x 1860. Same as the Tank Factory "skinny" 5,000 L, so the two sellers agree.
+3. **Kingspan 3,000 L slimline, search summary of Kingspan's own brochure (not checked at source):** 2200 x 800 x 1860, 65 kg. It agrees with the Tank Factory figure.
+4. **Other Kingspan 3,000 L figures seen in search summaries (not checked at source):** 2500 x 700 x 1860 (a New Zealand listing; matches a Tank Factory row) and a hardware-store listing "850 x 1560 x 2700" whose order is not labelled, so I have not used it.
+5. **Made-to-order rule (what the maker says):** all steel tanks are made to order; listed sizes are the best value; made-to-measure slimline and Modline tanks are available by contacting the Tank Factory with preferred dimensions (checked at source). Kingspan's brochure title says "Made to Measure" (not checked at source). **No width limits, height limits or volume rule are published.**
+6. **What the listed models show (my reading, not a maker rule):** widths seen 550 to 1150. Heights seen 1560, 1860 and 2020 only. Stated litres come to about 90 to 93 percent of length x width x height. For a made-to-order tank, ask the maker for the rated litres of the exact size.
+
+### Slimline poly
+
+1. **The Tank Factory slimline poly page (Duraplas, checked at source, nominal sizes).**
+   - 450 L: 1170 x 600 x 920. 650 L: 1350 x 600 x 1250. 1,180 L: 1350 x 600 x 2130. 1,650 L: 2660 x 700 x 1250.
+   - 2,000 L: 2250 x 625 x 1930.
+   - 3,000 L: 2660 x 700 x 2130 (upright), or 3040 x 760 x 1865 (squat).
+   - 4,000 L: 2600 x 920 x 2170 (upright), or 3090 x 955 x 1890 (squat).
+   - 5,000 L: 3080 x 940 x 2170 (upright), or 3160 x 1160 x 1850 (squat).
+   - Plan shape: not stated. **Not checked at source.**
+2. **Tankworld 3,000 L SLR Slimline sheet (checked at source):** 2560 x 740, inlet height 2150, total height 2220. "Dimensions can vary slightly due to shrinkage; all dimensions are approximate."
+3. **Tankworld 5,000 L SLR Slimline sheet (checked at source):** 3180 x 1080, total height 2060. Same wording on shrinkage.
+4. **Rotoplus 3,500 L Super Shortbase Slimline, ASC page (checked at source):** 2380 x 870 x 2150. A Rotoplus data sheet is linked there; I did not open it. **This is the only 3,500 L slimline with a size I checked.**
+5. **Rotoplas Rainwater Tanks Catalogue 2019, slimline page (checked at source, older catalogue):** 1,500 L 1460 x 680 x 2050; 2,000 L smooth 2175 x 625 x 2015; 2,000 L corrugated 2400 x 650 x 1800; 3,000 L smooth 3100 x 680 x 2000. "All sizes approximate due to shrinkage."
+6. **Not checked at source:** Polymaster (3,000 L 2570 x 790 x 2050; 5,000 L 3290 x 1020 x 2010) and the other Rotoplus sizes seen on ASC listings (1,000 L 1900 x 390 x 1800; 2,000 L 2400 x 565 x 2000; 4,000 L 2750 x 850 x 2200; 5,000 L 2900 x 1000 x 2100). Search summaries only.
+7. **Fixed models.** Poly slimline tanks are moulded, so these are fixed models, not made to order.
+
+### Round tanks (plan shape is a circle, so the shape is certain)
+
+1. **The Tank Factory round steel page (checked at source, nominal):** 2,000 L 1200 dia x 1860; 3,000 L 1500 x 1860; 4,000 L 1700 x 1860; 5,000 L 1900 x 1860; 10,000 L 2700 x 1860.
+2. **The Tank Factory round poly page (Duraplas, checked at source, nominal, diameter x height):**
+   - 1,200 L: 1070 x 1555. 1,800 L: 1560 x 1220. 2,720 L: 1430 x 2000.
+   - 3,000 L: 1600 x 1850. 3,900 L: 2170 x 1400. 4,100 L: 2170 x 1495.
+   - 4,500 L: 1830 x 2050. 5,000 L: 2175 x 1750, or 1800 x 2470.
+   - 5,675 L: 2020 x 2000. 9,000 L: 2530 x 2020. 10,000 L: 2510 x 2350.
+3. **Round tanks are fixed models.** The round steel tanks are listed as fixed sizes on that page.
+4. **Not read:** the round pages of the Rotoplas catalogue, Tankworld round sheets, Kingspan round tanks.
+
+### Plan shape: what the picture does about it
+
+1. **No maker states the slimline plan shape in anything I could read.** The Tank Factory pages and the ASC page give only length, width and height.
+2. **One seller's wording (search summary, not a maker, not checked at source):** a steel slimline seller's page says the "rounded ends" of a slimline tank give a sleek look. It gives no radius.
+3. **So the picture uses fully rounded ends (end radius half the width) as a stand-in and says so under each tank.** It is not a checked shape. Ask each maker for a plan drawing before the block is final.
+
+## Makers' sizes and shapes: What I could not confirm
+
+1. **The plan shape of any slimline tank**, rounded ends or rounded corners, and any corner radius. No maker figure found.
+2. **Kingspan's own size chart and Made to Measure brochure** (blocked at the maker's site).
+3. **Polymaster, Bushman, Pioneer, Fielders and Lysaght** sizes at source (blocked or not found).
+4. **How far steel makers will stretch a made-to-order tank** (widths, heights, maximum length, litres for a given length).
+5. **The Rotoplus data sheet** linked from the ASC 3,500 L page (not opened), and the Tankworld drawings (I read the text, not the picture).
+6. **Round 1,000 to 3,500 L steel from Kingspan itself, and round 2,500 L and 3,500 L from any maker** (the Tank Factory has 2,720 L and 3,000 L poly only).
+
+---
+
 ## Checked at source, 19 Nov 2026
 
 Checked against the makers' drawings in the office Tanks folder and HB 230-2008 (Rainwater Tank Design and Installation Handbook, office copy).
